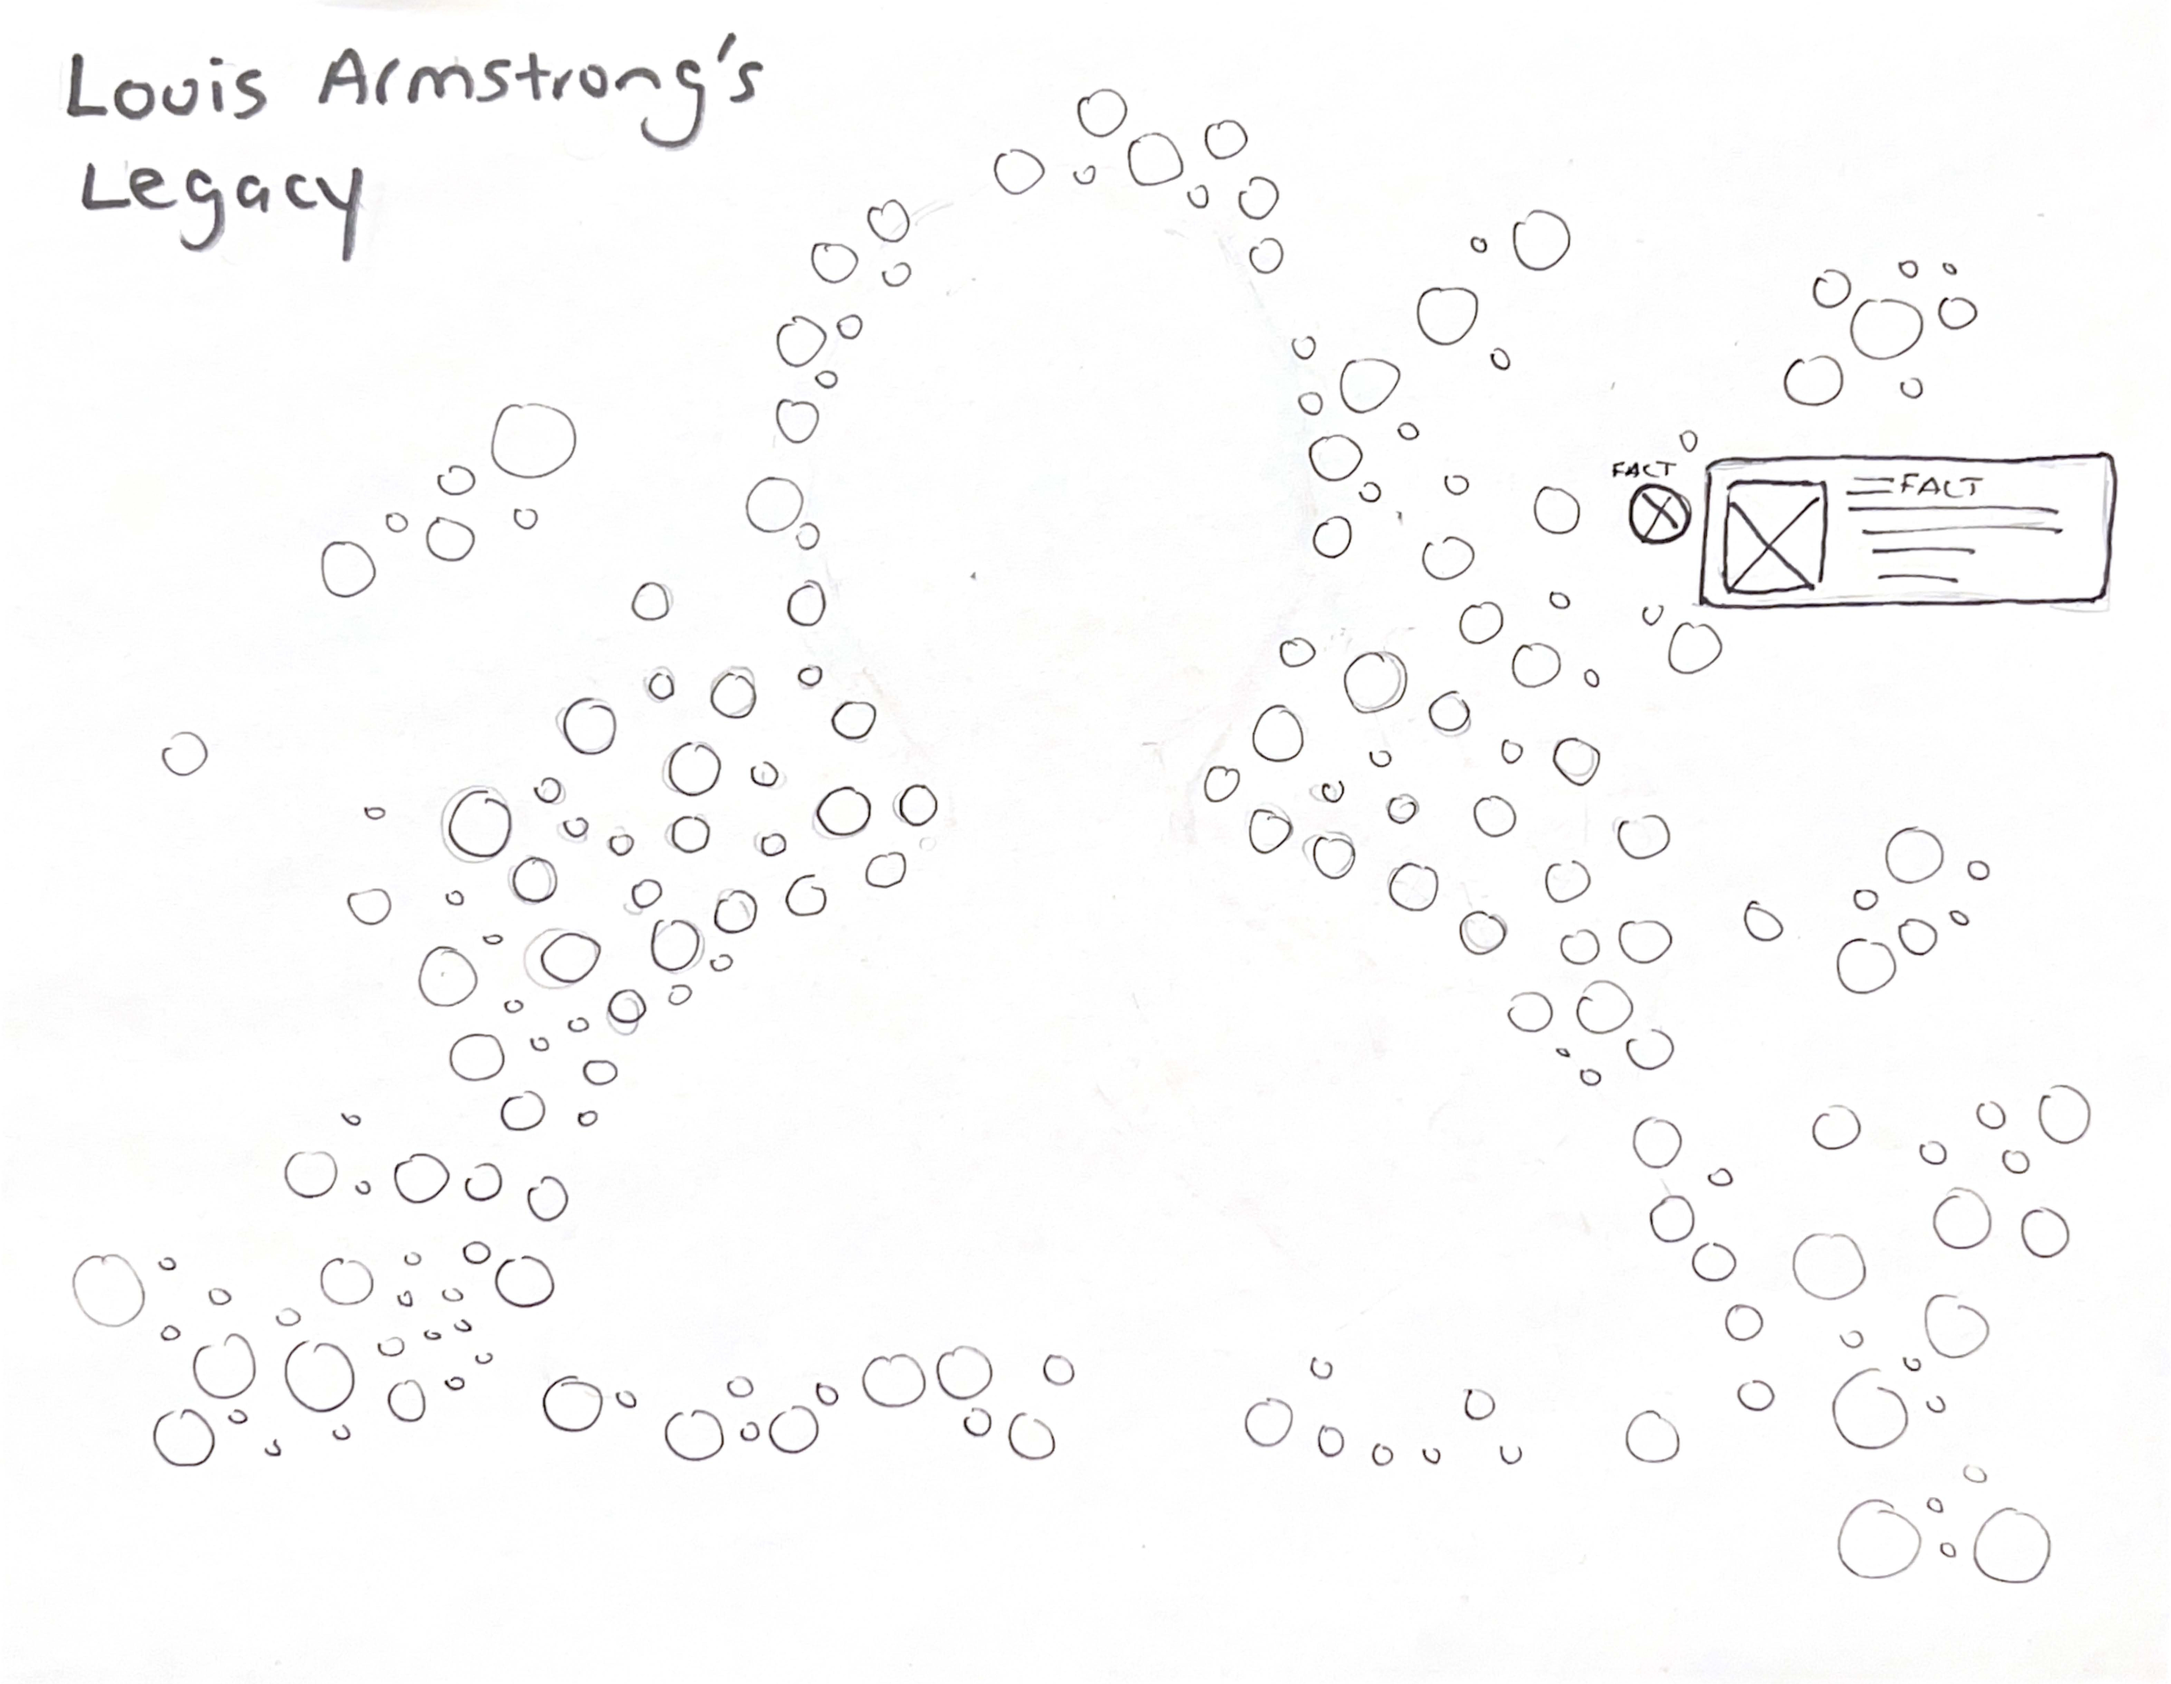
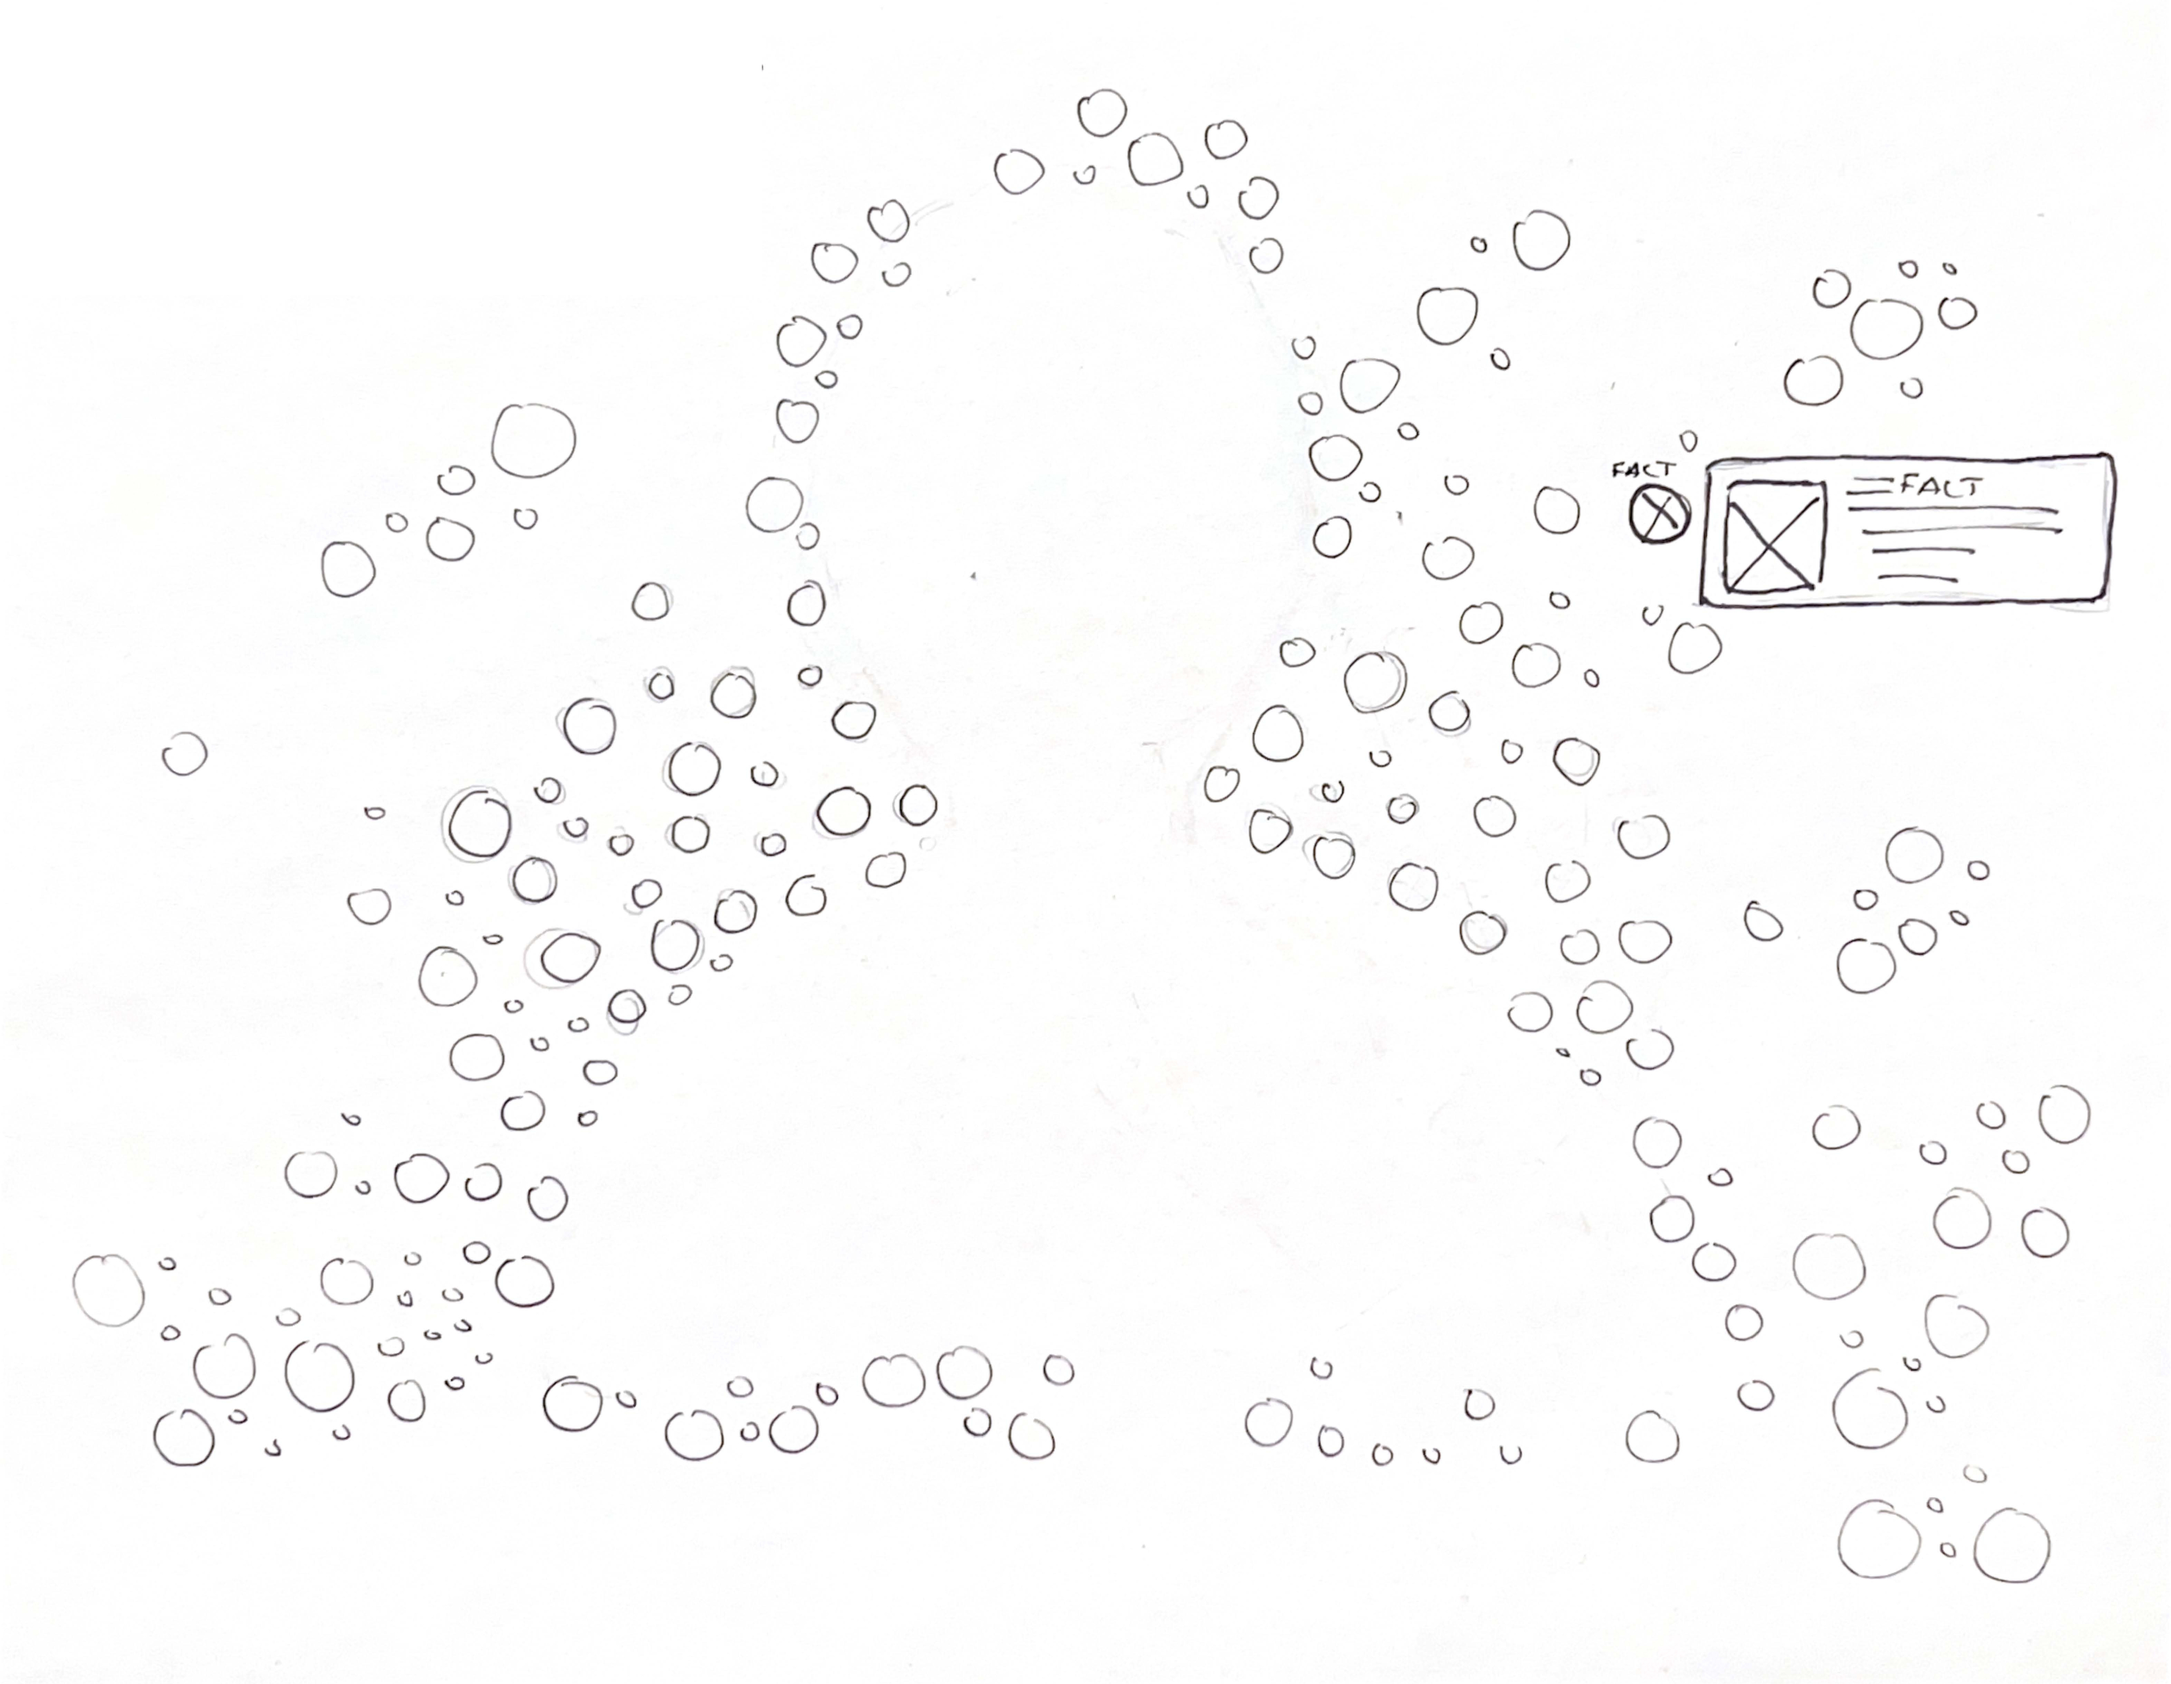
updates to titles

Changed region(s): [[0.0311, 0.0312, 0.3729, 0.1558]]

diff --git a/Thesis2026/sketches.md b/Thesis2026/sketches.md
@@ -1,24 +1,30 @@
-# Sketches and Visualizations for Thesis
+## Sketches and Visualizations for Thesis
 
-### Louis Armstrong’s Life in 2000 Facts
+# Louis Armstrong - Anatomy of an Artist
+
+### Louis Armstrong’s: A Data Portrait in 2000 Facts
+# Visualization: custom
 
 Description: Louis Armstrong’s life as 2000 facts that on hover can be discovered. Facts are masked around an iconic silhouette of Louis Armstrong’s head and shoulders. Facts are searchable. Louis Armstrong's name is recognized but most do not know who he was and what he accomplsied throughtout his life and beyond. This visualization will show who Armstrong is through facts that are well known and other facts that less commonly known.
 
 ![Facts of Louis Armstrong](public/sketches/facts.jpg)
 
-### Map
+### Louis Armstrong’s World Tour: A Map of Influence
+# Visualization: map
 
 Description: The enormity of Louis Armstrong's life and influence across time and space. He performed in many cities across the world and his influence is still felt today. This map will show the locations of Armstrong's performances and the influence he had on other musicians and artists.
 
 ![Facts of Louis Armstrong](public/sketches/map.jpg)
 
-### Timeline
+### The History Behind Louis Armstrong
+# Visualization: timeline
 
 Description: The chronological journey of Louis Armstrong's life and career. This timeline will show the key events in Armstrong's life, including his birth, early life, career milestones, and legacy. It will also show the role history played on decisions Louis Armstrong made. With events such as the Great Depression, World War II, and the Civil Rights Movement, Armstrong's life and career were shaped by the historical context in which he lived. This timeline will show how these events influenced Armstrong's decisions and how he navigated the challenges of his time.
 
 ![Map of Itinerary and Facts:](public/sketches/timeline.jpg)
 
-### Virtual Curation
+### Discovering Armstrong: A Randomized Curation
+# Visualization: virtual curation
 
 Description: This data visualization presents Louis Armstrong's life and work in an interactive virtual curation format. Users can explore his musical legacy through curated collections of performances, recordings, and historical artifacts.
 
